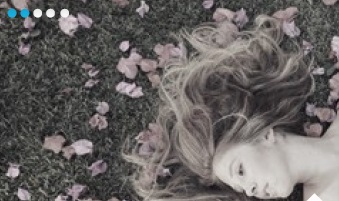
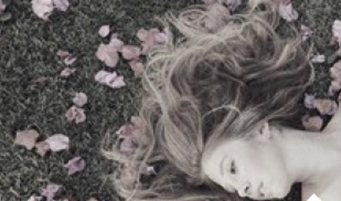
Ratings Dinamicos
Recorte de imagenes para que no solape el efecto

diff --git a/templates/tribo/css/custom.css b/templates/tribo/css/custom.css
@@ -298,6 +298,25 @@ div.sq_content{
 	font-size: 17px;
 }
 
+/*Rating*/
+.rating{
+	position: absolute;
+	top: 6px;
+	left: 21px;
+}
+.bullet{
+	height: 7px;
+	width: 7px;
+	-webkit-border-radius: 20px;
+	-moz-border-radius: 20px;
+	border-radius: 20px;
+	background-color: #FFF !important;
+	float: left;
+	margin: 1px;
+}
+.bullet-blue{
+	background-color: #12addf !important;
+}
 
 
 /* Debug Footer */

diff --git a/apps/episodios/views/episodios.view.php b/apps/episodios/views/episodios.view.php
@@ -28,7 +28,7 @@ for($x=19; $x>15; $x--){
 	seeEpisode("sq_musica.jpg", 
 			   "EN LA TRANQUILIDAD", 
 			   "episodios/princesa_rota", 
-			   rand(100, 9999), 
+			   rand(0, 1000), 
 			   "Isabel lleva ocho meses bajo atención hospitalaria. Varias cicatrices salpican su joven cuerpo, pero una amnesia, producida por un complejo traumatismo, le impide conocer la naturaleza de sus heridas.",
 			   "40:0".rand(0, 9),
 			   "CAPÍTULO ".$x);
@@ -38,6 +38,7 @@ function seeEpisode($img, $title, $url, $likes, $description, $duration, $name){
 	?>
 	<div class='col-md-6 square'>
 		<img src="<?=Url::template("img/".$img)?>" title="<?php echo $title; ?>" />
+		<div class="rating"><?=HTML::showRate($likes, 1000);?></div>
 		<div class="sq_content">
 			<div class="sq_title">
 				<a href="<?=Url::site($url);?>">
@@ -58,6 +59,7 @@ function seeEpisode($img, $title, $url, $likes, $description, $duration, $name){
 		<div class="sqd_description"><?php echo $description; ?></div>
 		<span class="sqd_info"><?php echo $duration; ?> | <?php echo $name; ?></span>
 	</div>
+	
 	<div style="clear: both;"></div>
 	<?php
 }

diff --git a/libs/html.php b/libs/html.php
@@ -73,4 +73,24 @@ class HTML
 
         return $html;
     }
+    function showRate($value, $max, $min = 0, $bullets = 5){
+        $html = "";
+        if($min > 0){
+            /*Ajuste de rango*/
+            $max = $max - $min;
+            $value = $value - $min;
+        }
+        $porcentaje = $value * 100 / $max;
+        $cuenta = 0;
+        $value_bullet = 100 / $bullets;
+        for($x=1; $x<=$bullets; $x++){
+            if($porcentaje < ($value_bullet * $x)){
+                $html .= "<div class='bullet'></div>";
+            }else{
+                $html .= "<div class='bullet bullet-blue'></div>";;
+            }
+        }
+
+        return $html;
+    }
 }

diff --git a/templates/tribo/landing.layer.php b/templates/tribo/landing.layer.php
@@ -149,10 +149,11 @@
 </html>
 
 <?php
-function seeSquare($img, $title, $url, $num){
+function seeSquare($img, $title, $url, $likes){
 	?>
 	<div class='col-md-6 square'>
 		<img src="<?=Url::template("img/".$img)?>" title="<?php echo $title; ?>" />
+		<div class="rating"><?=HTML::showRate($likes, 999, 10);?></div>
 		<div class="sq_content">
 			<div class="sq_title">
 				<a href="<?=Url::site($url);?>">
@@ -160,7 +161,7 @@ function seeSquare($img, $title, $url, $num){
 				</a>
 			</div>
 			<div class="sq_num">
-				<?php echo $num; ?>
+				<?php echo $likes; ?>
 				<i class="fa fa-heart-o"></i>
 			</div>
 		</div>
